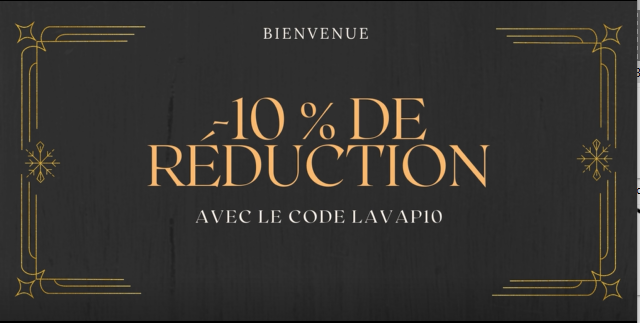
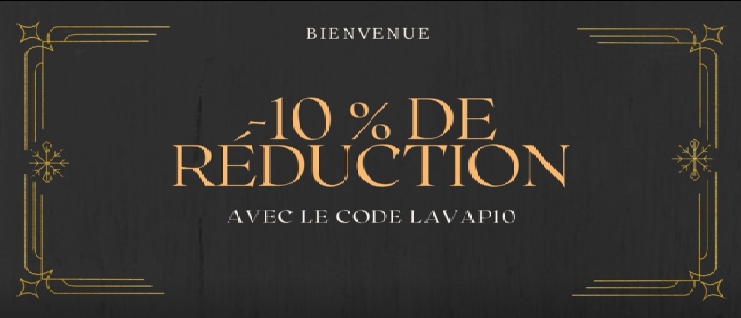
f

diff --git a/Bryan/index.css b/Bryan/index.css
@@ -18,14 +18,20 @@
     }
     .banderole {
         display: flex;
-        flex-wrap: wrap;
-        margin-right: 2%;
-        margin-left: 2%;
-        margin-top: 2%;
+       
+        margin: 2%;
         width: auto;
         height: 250px;
-        border: 3px solid;
+        justify-content: center;
     }
+
+    .banderole img{
+        width: 1300px;
+        height: auto;
+
+    }
+
+
     .table {
         display: flex;
         flex-wrap: wrap;

diff --git a/Bryan/index.php b/Bryan/index.php
@@ -32,18 +32,12 @@ include_once("fonction-panier.php");
 
 
     <div class="banderole">
-        <table>
-            <tr>
-                <td>
-                    <image src="/image/banniere.png">
-                    </image>
-                
-                </td>
-            </tr>
-        </table>
-
-
+        
+        <img  src="/image/banniere.png"> 
+                   
     </div>
+
+
 
     <div class="corps">
         <div class="millieu">
